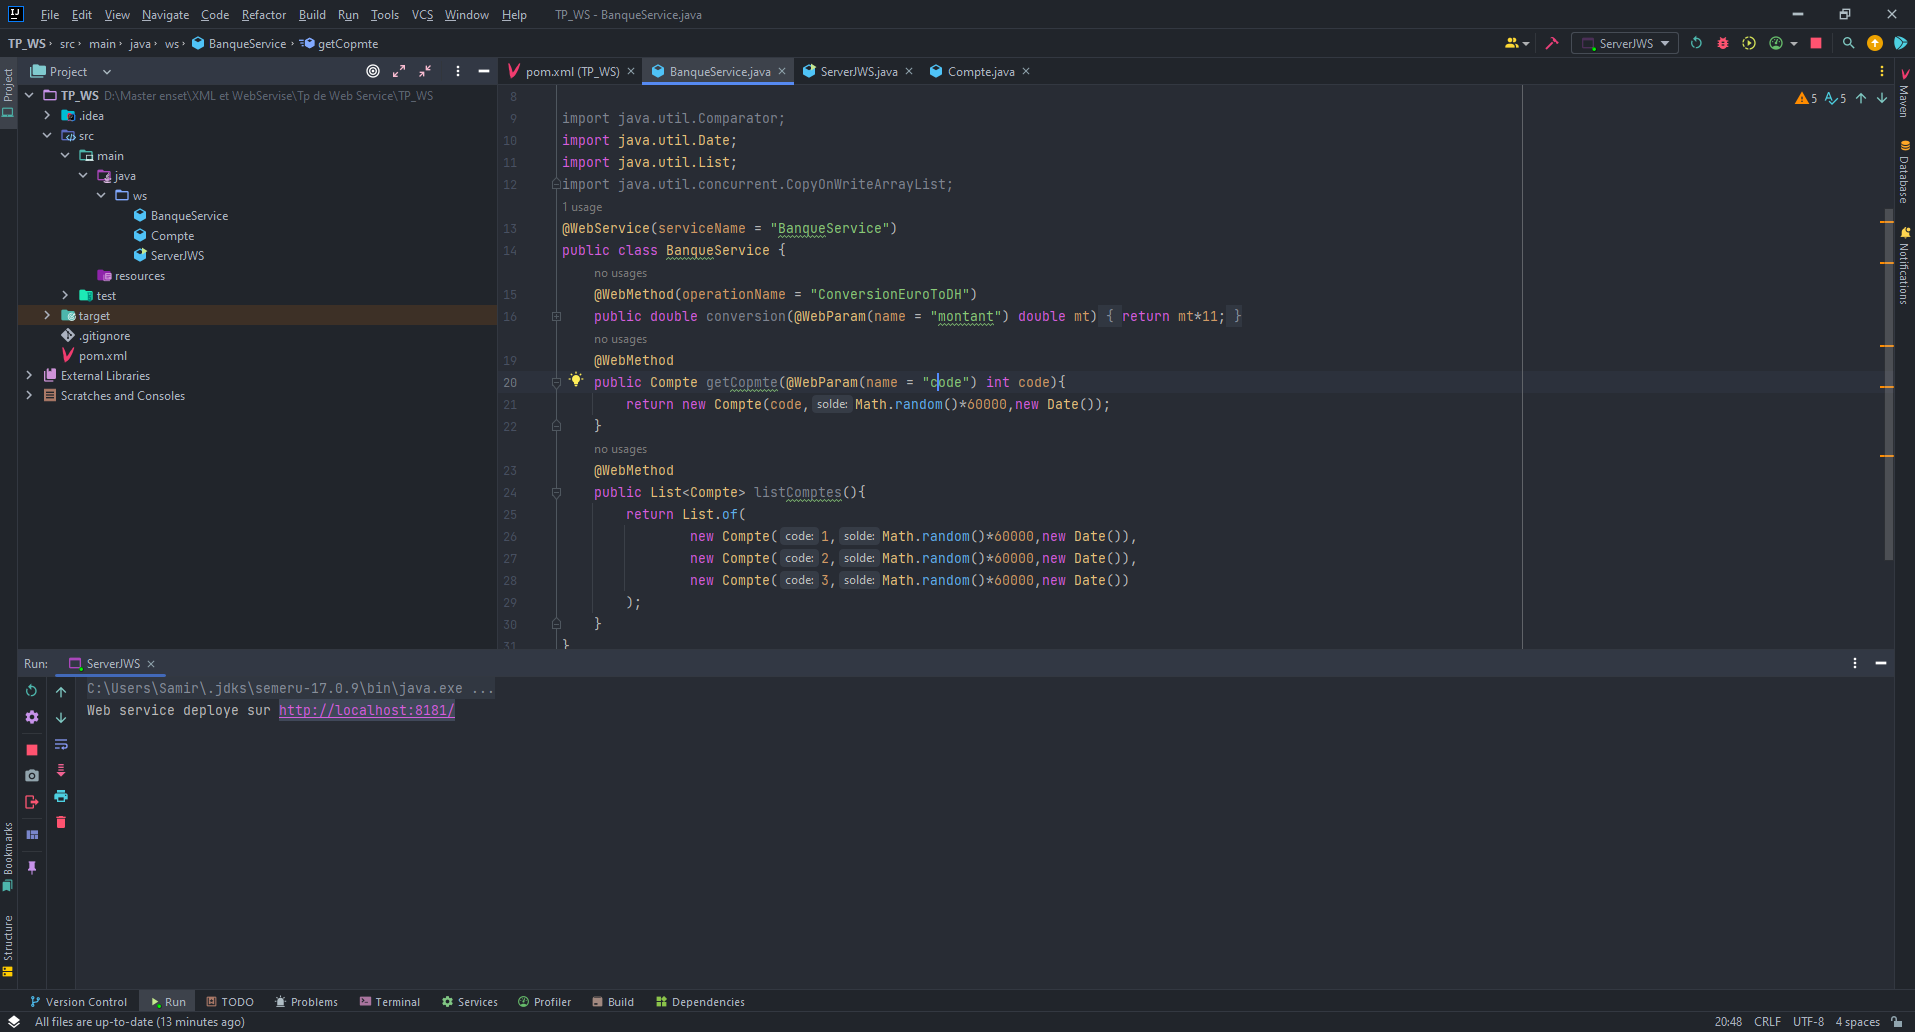
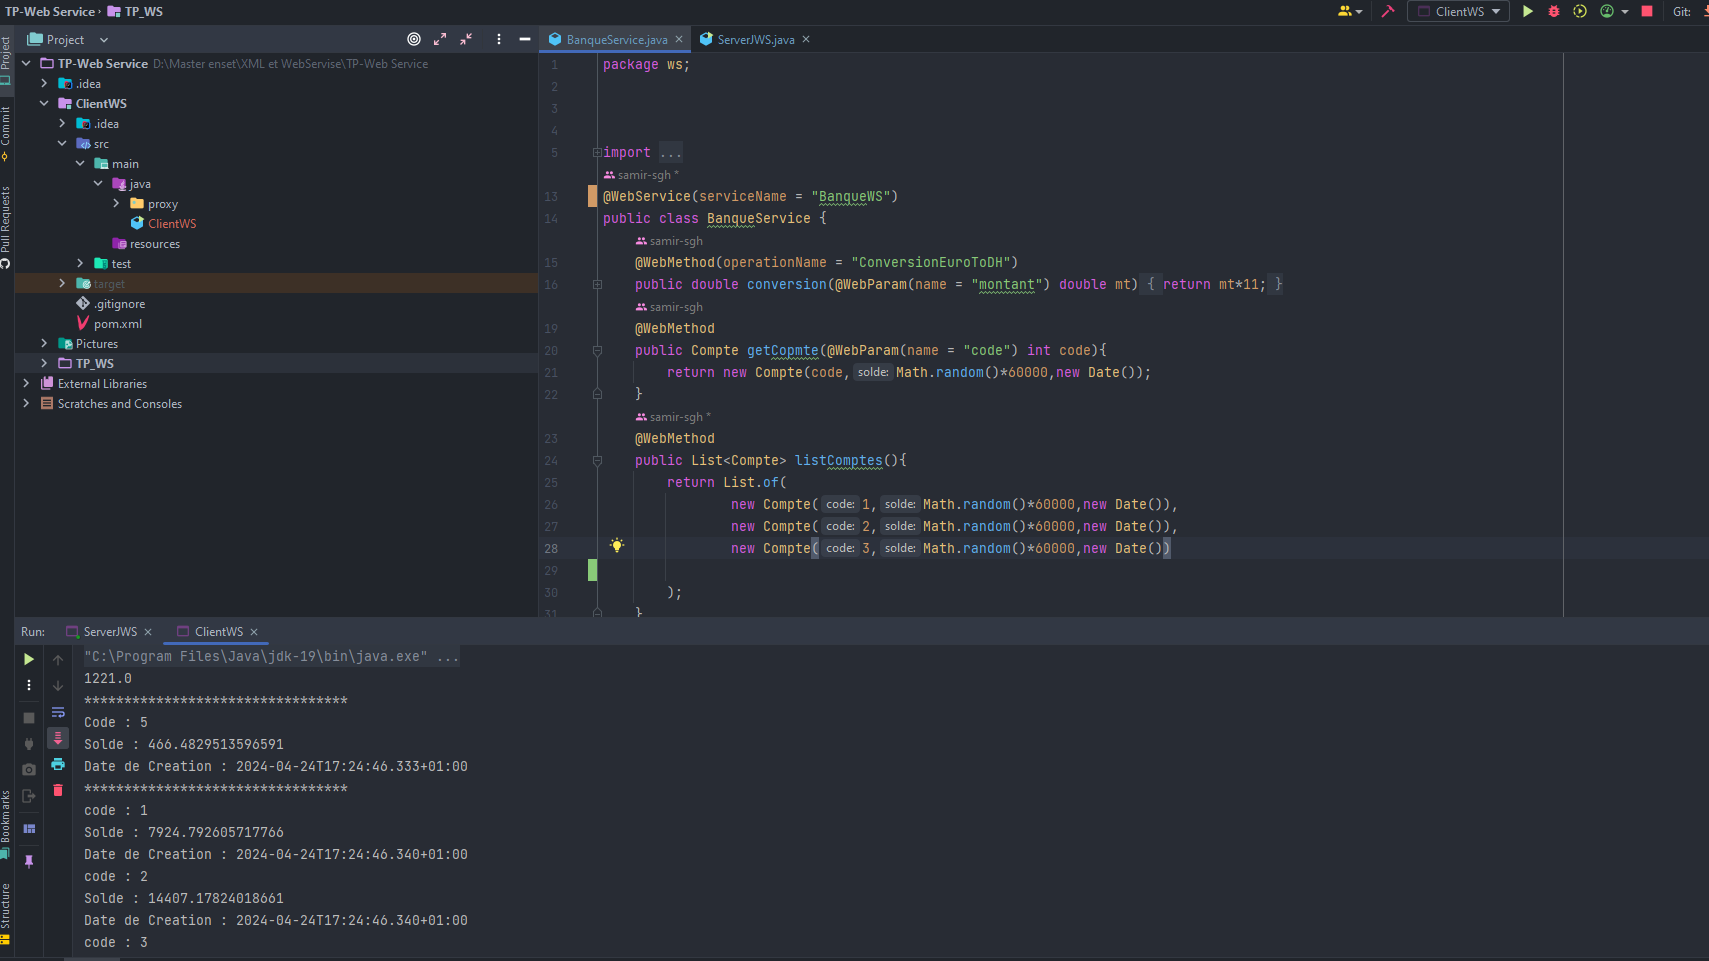
new update

diff --git a/TP-Web Service/ClientWS/src/main/java/proxy/BanqueWS.java b/TP-Web Service/ClientWS/src/main/java/proxy/BanqueWS.java
@@ -17,14 +17,14 @@ import jakarta.xml.ws.WebServiceFeature;
  * Generated source version: 3.0
  * 
  */
-@WebServiceClient(name = "BanqueService", targetNamespace = "http://ws/", wsdlLocation = "http://localhost:8181/?wsdl")
-public class BanqueService_Service
+@WebServiceClient(name = "BanqueWS", targetNamespace = "http://ws/", wsdlLocation = "http://localhost:8181/?wsdl")
+public class BanqueWS
     extends Service
 {
 
-    private static final URL BANQUESERVICE_WSDL_LOCATION;
-    private static final WebServiceException BANQUESERVICE_EXCEPTION;
-    private static final QName BANQUESERVICE_QNAME = new QName("http://ws/", "BanqueService");
+    private static final URL BANQUEWS_WSDL_LOCATION;
+    private static final WebServiceException BANQUEWS_EXCEPTION;
+    private static final QName BANQUEWS_QNAME = new QName("http://ws/", "BanqueWS");
 
     static {
         URL url = null;
@@ -34,31 +34,31 @@ public class BanqueService_Service
         } catch (MalformedURLException ex) {
             e = new WebServiceException(ex);
         }
-        BANQUESERVICE_WSDL_LOCATION = url;
-        BANQUESERVICE_EXCEPTION = e;
+        BANQUEWS_WSDL_LOCATION = url;
+        BANQUEWS_EXCEPTION = e;
     }
 
-    public BanqueService_Service() {
-        super(__getWsdlLocation(), BANQUESERVICE_QNAME);
+    public BanqueWS() {
+        super(__getWsdlLocation(), BANQUEWS_QNAME);
     }
 
-    public BanqueService_Service(WebServiceFeature... features) {
-        super(__getWsdlLocation(), BANQUESERVICE_QNAME, features);
+    public BanqueWS(WebServiceFeature... features) {
+        super(__getWsdlLocation(), BANQUEWS_QNAME, features);
     }
 
-    public BanqueService_Service(URL wsdlLocation) {
-        super(wsdlLocation, BANQUESERVICE_QNAME);
+    public BanqueWS(URL wsdlLocation) {
+        super(wsdlLocation, BANQUEWS_QNAME);
     }
 
-    public BanqueService_Service(URL wsdlLocation, WebServiceFeature... features) {
-        super(wsdlLocation, BANQUESERVICE_QNAME, features);
+    public BanqueWS(URL wsdlLocation, WebServiceFeature... features) {
+        super(wsdlLocation, BANQUEWS_QNAME, features);
     }
 
-    public BanqueService_Service(URL wsdlLocation, QName serviceName) {
+    public BanqueWS(URL wsdlLocation, QName serviceName) {
         super(wsdlLocation, serviceName);
     }
 
-    public BanqueService_Service(URL wsdlLocation, QName serviceName, WebServiceFeature... features) {
+    public BanqueWS(URL wsdlLocation, QName serviceName, WebServiceFeature... features) {
         super(wsdlLocation, serviceName, features);
     }
 
@@ -85,10 +85,10 @@ public class BanqueService_Service
     }
 
     private static URL __getWsdlLocation() {
-        if (BANQUESERVICE_EXCEPTION!= null) {
-            throw BANQUESERVICE_EXCEPTION;
+        if (BANQUEWS_EXCEPTION!= null) {
+            throw BANQUEWS_EXCEPTION;
         }
-        return BANQUESERVICE_WSDL_LOCATION;
+        return BANQUEWS_WSDL_LOCATION;
     }
 
 }

diff --git a/TP-Web Service/ClientWS/src/main/java/proxy/BanqueService.java b/TP-Web Service/ClientWS/src/main/java/proxy/BanqueService.java
@@ -27,15 +27,18 @@ public interface BanqueService {
 
     /**
      * 
+     * @param montant
      * @return
-     *     returns java.util.List<proxy.Compte>
+     *     returns double
      */
-    @WebMethod
+    @WebMethod(operationName = "ConversionEuroToDH")
     @WebResult(targetNamespace = "")
-    @RequestWrapper(localName = "listComptes", targetNamespace = "http://ws/", className = "proxy.ListComptes")
-    @ResponseWrapper(localName = "listComptesResponse", targetNamespace = "http://ws/", className = "proxy.ListComptesResponse")
-    @Action(input = "http://ws/BanqueService/listComptesRequest", output = "http://ws/BanqueService/listComptesResponse")
-    public List<Compte> listComptes();
+    @RequestWrapper(localName = "ConversionEuroToDH", targetNamespace = "http://ws/", className = "proxy.ConversionEuroToDH")
+    @ResponseWrapper(localName = "ConversionEuroToDHResponse", targetNamespace = "http://ws/", className = "proxy.ConversionEuroToDHResponse")
+    @Action(input = "http://ws/BanqueService/ConversionEuroToDHRequest", output = "http://ws/BanqueService/ConversionEuroToDHResponse")
+    public double conversionEuroToDH(
+        @WebParam(name = "montant", targetNamespace = "")
+        double montant);
 
     /**
      * 
@@ -54,17 +57,14 @@ public interface BanqueService {
 
     /**
      * 
-     * @param montant
      * @return
-     *     returns double
+     *     returns java.util.List<proxy.Compte>
      */
-    @WebMethod(operationName = "ConversionEuroToDH")
+    @WebMethod
     @WebResult(targetNamespace = "")
-    @RequestWrapper(localName = "ConversionEuroToDH", targetNamespace = "http://ws/", className = "proxy.ConversionEuroToDH")
-    @ResponseWrapper(localName = "ConversionEuroToDHResponse", targetNamespace = "http://ws/", className = "proxy.ConversionEuroToDHResponse")
-    @Action(input = "http://ws/BanqueService/ConversionEuroToDHRequest", output = "http://ws/BanqueService/ConversionEuroToDHResponse")
-    public double conversionEuroToDH(
-        @WebParam(name = "montant", targetNamespace = "")
-        double montant);
+    @RequestWrapper(localName = "listComptes", targetNamespace = "http://ws/", className = "proxy.ListComptes")
+    @ResponseWrapper(localName = "listComptesResponse", targetNamespace = "http://ws/", className = "proxy.ListComptesResponse")
+    @Action(input = "http://ws/BanqueService/listComptesRequest", output = "http://ws/BanqueService/listComptesResponse")
+    public List<Compte> listComptes();
 
 }

diff --git a/TP-Web Service/ClientWS/src/main/java/ClientWS.java b/TP-Web Service/ClientWS/src/main/java/ClientWS.java
@@ -1,8 +1,25 @@
 import proxy.BanqueService;
 import proxy.BanqueWS;
+import proxy.Compte;
+
+import java.util.List;
 
 public class ClientWS {
     public static void main(String[] args) {
         BanqueService proxy = new BanqueWS().getBanqueServicePort();
+        System.out.println(proxy.conversionEuroToDH(111));
+        System.out.println("*********************************");
+        Compte cp = proxy.getCopmte(5);
+        System.out.println("Code : " + cp.getCode());
+        System.out.println("Solde : " + cp.getSolde());
+        System.out.println("Date de Creation : " + cp.getDateCreation());
+        System.out.println("*********************************");
+        List<Compte> comptesList = proxy.listComptes();
+        for (Compte c:comptesList) {
+            System.out.println("code : " + c.getCode());
+            System.out.println("Solde : " + c.getSolde());
+            System.out.println("Date de Creation : " + c.getDateCreation());
+        }
+
     }
 }

diff --git a/TP-Web Service/TP_WS/src/main/java/ws/BanqueService.java b/TP-Web Service/TP_WS/src/main/java/ws/BanqueService.java
@@ -10,7 +10,7 @@ import java.util.Comparator;
 import java.util.Date;
 import java.util.List;
 import java.util.concurrent.CopyOnWriteArrayList;
-@WebService(serviceName = "BanqueService")
+@WebService(serviceName = "BanqueWS")
 public class BanqueService {
     @WebMethod(operationName = "ConversionEuroToDH")
     public double conversion(@WebParam(name = "montant") double mt){
@@ -26,6 +26,7 @@ public class BanqueService {
                 new Compte(1,Math.random()*60000,new Date()),
                 new Compte(2,Math.random()*60000,new Date()),
                 new Compte(3,Math.random()*60000,new Date())
+
         );
     }
 }

diff --git a/TP-Web Service/TP_WS/src/main/java/ws/ServerJWS.java b/TP-Web Service/TP_WS/src/main/java/ws/ServerJWS.java
@@ -6,6 +6,6 @@ public class ServerJWS {
     public static void main(String[] args) {
         String url = "http://localhost:8181/";
         Endpoint.publish(url, new BanqueService());
-        System.out.println("Web service deploye sur " + url);
+        System.out.println("Web service déployé sur " + url);
     }
 }
